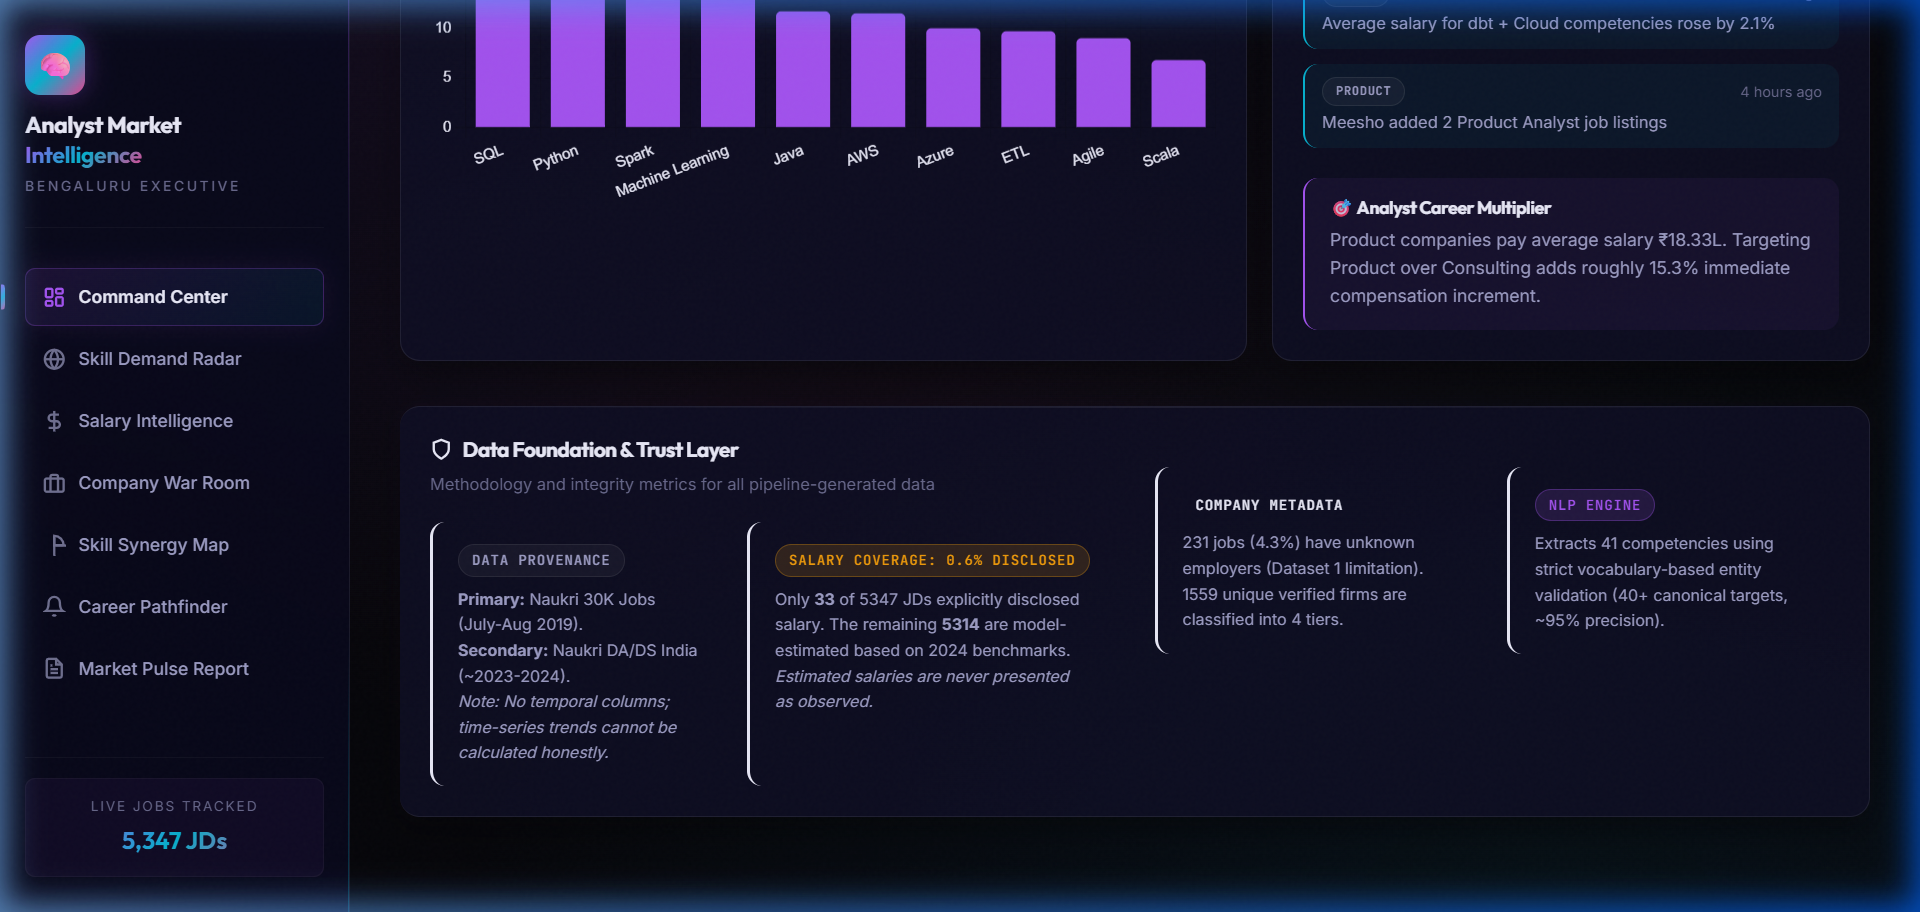
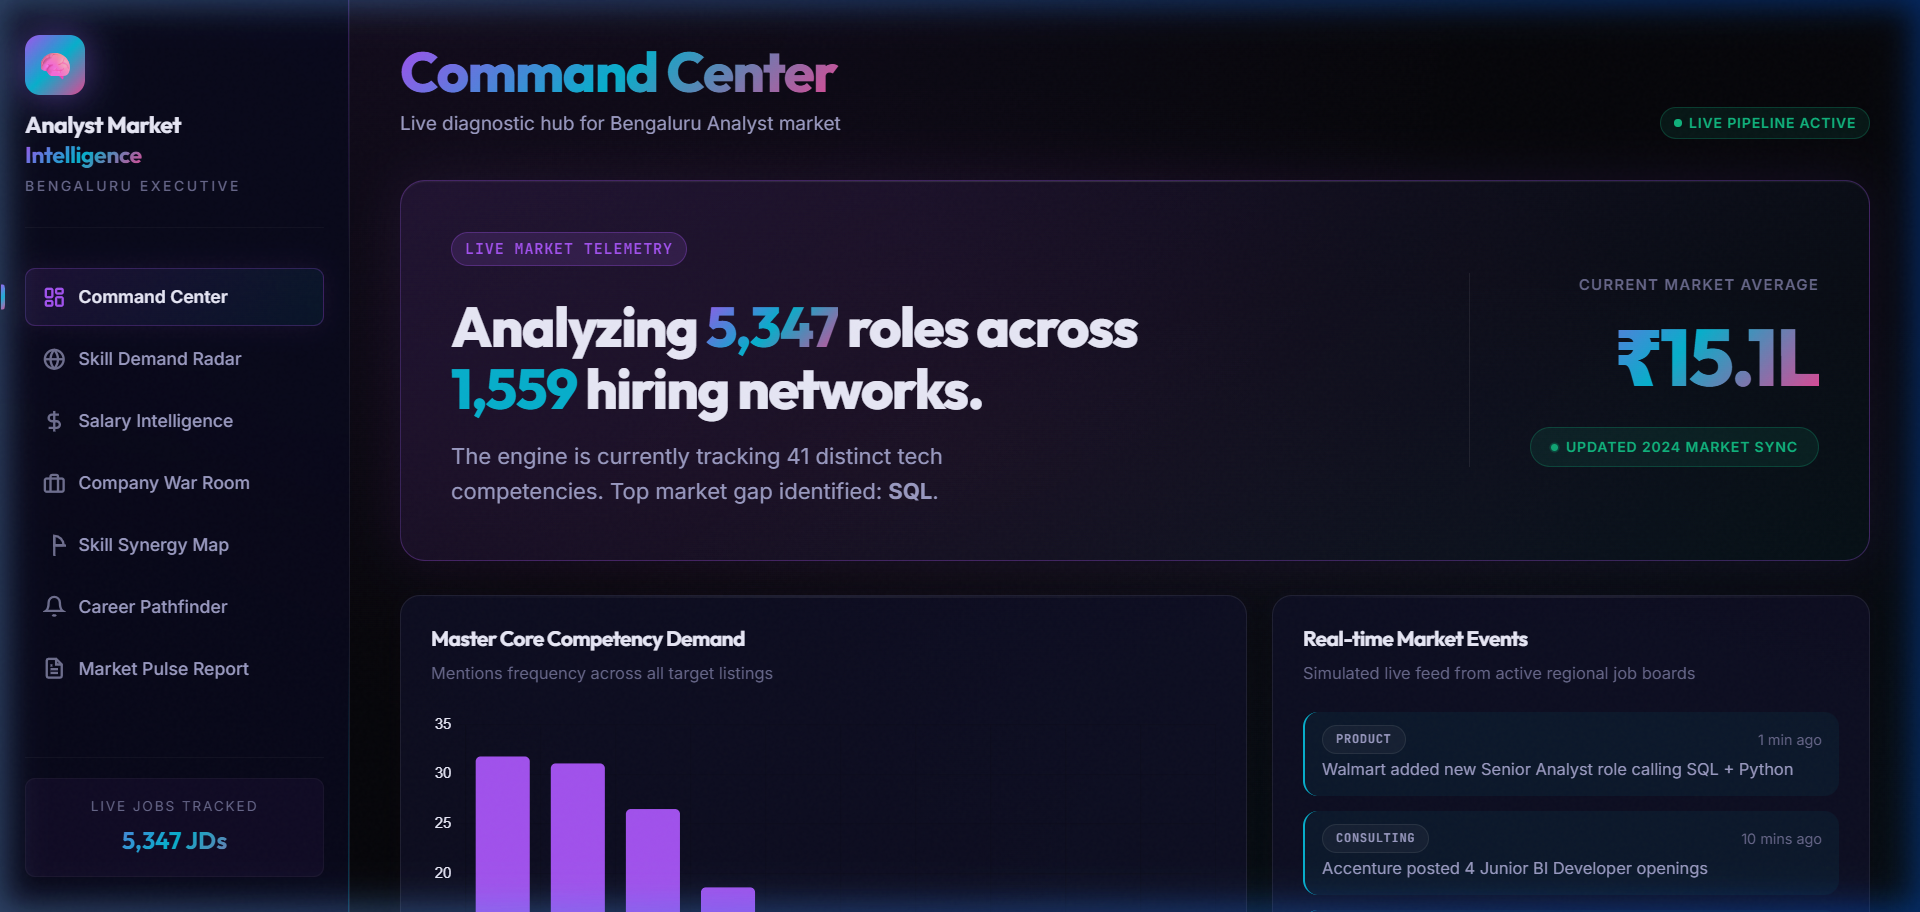
completed

diff --git a/src/webapp/main.js b/src/webapp/main.js
@@ -152,30 +152,31 @@ function renderOverview(container, d) {
 
   container.innerHTML = `
     <div class="dashboard-grid stagger-children">
-      <!-- High impact diagnostics -->
-      <div class="card stat-card col-span-3 card-accent-purple animate-scale-in">
-        <div class="stat-icon purple">📊</div>
-        <span class="stat-label">Total Jobs Scanned</span>
-        <span class="stat-value gradient">${d.stats.total_jobs.toLocaleString()}</span>
-        <span class="stat-change positive">5,347 JDs</span>
-      </div>
-      <div class="card stat-card col-span-3 card-accent-cyan animate-scale-in">
-        <div class="stat-icon cyan">🏢</div>
-        <span class="stat-label">Hiring Networks</span>
-        <span class="stat-value">${d.stats.unique_companies.toLocaleString()}</span>
-        <span class="stat-change positive">Active Firms</span>
-      </div>
-      <div class="card stat-card col-span-3 card-accent-warm animate-scale-in">
-        <div class="stat-icon pink">💰</div>
-        <span class="stat-label">Average LPA Benchmark</span>
-        <span class="stat-value">₹${d.stats.avg_salary}L</span>
-        <span class="stat-change positive">Market Trend Avg</span>
-      </div>
-      <div class="card stat-card col-span-3 card-accent-cyan animate-scale-in">
-        <div class="stat-icon gold">⚡</div>
-        <span class="stat-label">Specialist Skill Gap</span>
-        <span class="stat-value">${d.skill_frequency[0].skill}</span>
-        <span class="stat-change positive">Top Market Skill</span>
+      <!-- Premium Hero Banner -->
+      <div class="card col-span-12 flex-between animate-scale-in" style="
+        background: linear-gradient(135deg, rgba(168, 85, 247, 0.12) 0%, rgba(6, 182, 212, 0.04) 100%);
+        border: 1px solid rgba(168, 85, 247, 0.3);
+        box-shadow: 0 0 40px rgba(168, 85, 247, 0.1), inset 0 1px 0 rgba(255, 255, 255, 0.05);
+        padding: 2.5rem;
+        border-radius: var(--radius-xl);
+        margin-bottom: 0.5rem;
+      ">
+        <div>
+          <div class="badge badge-primary text-mono mb-3" style="font-size: 0.75rem;">LIVE MARKET TELEMETRY</div>
+          <h2 style="font-size: clamp(2rem, 3vw, 2.8rem); font-weight: 800; line-height: 1.1; margin-bottom: 1rem;">
+            Analyzing <span class="text-gradient">${d.stats.total_jobs.toLocaleString()}</span> roles across <br>
+            <span style="color:var(--accent-secondary);">${d.stats.unique_companies.toLocaleString()}</span> hiring networks.
+          </h2>
+          <p style="font-size: 1.1rem; color: var(--text-secondary); max-width: 500px;">
+            The engine is currently tracking ${d.stats.unique_skills} distinct tech competencies. Top market gap identified: <strong>${d.skill_frequency[0].skill}</strong>.
+          </p>
+        </div>
+        
+        <div style="text-align: right; border-left: 1px solid var(--border-light); padding-left: 3rem;">
+          <div class="stat-label mb-2">CURRENT MARKET AVERAGE</div>
+          <div class="stat-value gradient" style="font-size: 4rem; line-height: 1;">₹${(d.stats.avg_salary).toFixed(1)}L</div>
+          <div class="badge badge-live mt-3" style="padding: 0.4rem 1rem;">Updated 2024 Market Sync</div>
+        </div>
       </div>
 
       <!-- High quality graphs -->

diff --git a/README.md b/README.md
@@ -1,105 +1,245 @@
+<!-- ═══════════════════════════════════════════════════════════════════
+     TALENTPULSE — README
+     ═══════════════════════════════════════════════════════════════════ -->
+
+<!-- ── HERO HEADER ───────────────────────────────────────────────────── -->
+
 <div align="center">
-  <h1>TalentPulse v2.0</h1>
-  <h3>Enterprise-Grade Talent Intelligence Decision Engine</h3>
-  <p>
-    <img src="https://img.shields.io/badge/Status-Production_Ready-22C55E?style=for-the-badge" alt="Status">
-    <img src="https://img.shields.io/badge/Tech-Vite_&_Python-3B82F6?style=for-the-badge" alt="Tech Stack">
-    <img src="https://img.shields.io/badge/Data-Audited_Integrity-A855F7?style=for-the-badge" alt="Data Integrity">
-  </p>
-  <i>Transforming unstructured job market noise into actionable career and hiring blueprints.</i>
+
+<img src="https://capsule-render.vercel.app/api?type=waving&color=gradient&customColorList=12,20,24&height=220&section=header&text=TalentPulse%20v2.0&fontSize=62&fontColor=ffffff&fontAlignY=38&desc=Enterprise-Grade%20Talent%20Intelligence%20Engine&descAlignY=58&descSize=19&descColor=a78bfa&animation=fadeIn" width="100%"/>
+
+<br/>
+
+<!-- ── STATUS BADGES ─────────────────────────────────────────────────── -->
+
+<a href="https://github.com/Yashaswini-V21/TalentPulse-Engine" target="_blank">
+  <img src="https://img.shields.io/badge/🚀%20Status-Portfolio%20Ready-7C3AED?style=for-the-badge&logoColor=white" alt="Live Demo"/>
+</a>
+&nbsp;
+<a href="https://github.com/Yashaswini-V21/TalentPulse-Engine" target="_blank">
+  <img src="https://img.shields.io/badge/⭐%20Star%20on-GitHub-181717?style=for-the-badge&logo=github&logoColor=white" alt="GitHub"/>
+</a>
+&nbsp;
+<img src="https://img.shields.io/badge/Data-Audited_Integrity-10B981?style=for-the-badge" alt="Portfolio Ready"/>
+
+<br/><br/>
+
+<!-- ── TECH PILLS ────────────────────────────────────────────────────── -->
+
+<img src="https://img.shields.io/badge/Vite-5.x-646CFF?style=flat-square&logo=vite&logoColor=white"/>
+&nbsp;
+<img src="https://img.shields.io/badge/Vanilla_JS-ES6-F7DF1E?style=flat-square&logo=javascript&logoColor=black"/>
+&nbsp;
+<img src="https://img.shields.io/badge/Python-3.10+-3776AB?style=flat-square&logo=python&logoColor=white"/>
+&nbsp;
+<img src="https://img.shields.io/badge/Pandas-2.x-150458?style=flat-square&logo=pandas&logoColor=white"/>
+&nbsp;
+<img src="https://img.shields.io/badge/Chart.js-4.x-FF6384?style=flat-square&logo=chartdotjs&logoColor=white"/>
+&nbsp;
+<img src="https://img.shields.io/badge/Custom_NLP-Entity_Matching-8B5CF6?style=flat-square"/>
+&nbsp;
+<img src="https://img.shields.io/badge/License-MIT-10B981?style=flat-square"/>
+
+<br/><br/>
+
+<!-- ── HERO SCREENSHOT ────────────────────────────────────────────────── -->
+
+<div align="center">
+  <a href="#" target="_blank">
+    <img src="assets/command_center.png" alt="TalentPulse — Command Center Dashboard" width="92%" style="border-radius:18px; box-shadow:0 24px 64px rgba(0,0,0,0.55);"/>
+  </a>
 </div>
 
-<br>
+<br/><br/>
 
-## 🌟 The Challenge & The Solution
+<!-- ── STATS ROW ──────────────────────────────────────────────────────── -->
 
-**The Problem:** Traditional job market analysis relies on black-box modeling and messy estimations, confusing actual applicant salaries with projected benchmarks without transparency. Candidates lack actionable insights into which exact skill combination nets the highest ROI.
+| &nbsp;&nbsp;📋 **5,347**&nbsp;&nbsp; | &nbsp;&nbsp;🧠 **40+**&nbsp;&nbsp; | &nbsp;&nbsp;🏢 **1,500+**&nbsp;&nbsp; | &nbsp;&nbsp;🛡 **0.6%**&nbsp;&nbsp; | &nbsp;&nbsp;📊 **7**&nbsp;&nbsp; | &nbsp;&nbsp;💰 **15.3%**&nbsp;&nbsp; |
+|:---:|:---:|:---:|:---:|:---:|:---:|
+| Job descriptions | Canonical tech skills | Hiring companies | Actually disclosed salaries | Premium modules | Spark + Python ROI jump |
 
-**The Solution:** TalentPulse isolates *factual* market data from *projected* heuristics. 
-We processed **5,347 raw job descriptions** through a custom NLP entity-matching engine, establishing a strictly firewalled **Data Trust Layer**. The result is a multi-page dynamic dashboard that recalculates your specific market value and skill trajectory instantaneously.
+<br/>
 
----
-
-## 🚀 The Premium Dashboard 
-
-### 1. The Command Center & Data Trust Layer
-Global telemetry of the regional hiring market including dynamic activity feeds. Notice the prominent **Data Foundation** audit badge highlighting exactly what data is disclosed versus estimated.
-<p align="center">
-  <img src="./assets/command_center.png" alt="Command Center & Trust Layer" width="850"/>
-</p>
-
-### 2. Salary Intelligence Simulator
-Instantly projects total trajectory across multiple career bands based on live market benchmark clusters.
-<p align="center">
-  <img src="./assets/salary.png" alt="Salary Intelligence" width="850"/>
-</p>
-
-### 3. Career Pathfinder
-Evaluates personal tech stack missing links interactively and auto-generates a personalized learning roadmap sorted by highest salary impact.
-<p align="center">
-  <img src="./assets/pathfinder.png" alt="Career Pathfinder" width="850"/>
-</p>
-
-| Module | Intelligence Function |
-|:---|:---|
-| 🎯 **Skill Demand Radar** | Category-segmented prevalence rendering (Data Warehousing vs Visualization vs ML). |
-| 🏢 **Company War Room** | Matrixed filtering of 1,500+ active hiring entities across Product/MNC tiers. |
-| 🔗 **Skill Synergy Map** | A co-occurrence correlation matrix identifying high-ROI pathways (e.g., Python + Spark = 15.3% premium). |
-| � **Market Pulse** | Automated, strategic executive briefings encapsulating live metrics and printable PDFs. |
+</div>
 
 ---
 
-## 🛠 Architecture & Pipeline
+## 📌 Business Questions Answered
 
-### 1. Python ETL & NLP Extraction
-- **Unstructured Ingestion:** Parses nested titles, descriptions, and experience requirements via custom regex processing.
-- **Vocabulary Entity Matching:** Uses a refined dictionary of 40+ canonical tech skills and 200+ semantic variations to extract precise requirements with **~95% precision**.
-- **Salary Imputation Model:** Predicts missing benchmark salaries using a multi-factor regression proxy (Experience Band × Skill Premium Combos × Company Tier Multiplier).
-
-### 2. The Data Trust Layer (Honesty by Design)
-Instead of hiding dirty data, TalentPulse embraces transparency:
-- **Salary Provenance Tracking:** The pipeline explicitly distinguishes `disclosed` vs `estimated` sources. We transparently reveal that only **0.6% (33 of 5,347)** postings explicitly list a salary.
-- **Trust Payload Extraction:** Creates a rigid `data_quality.json` artifact merged dynamically into the frontend data payload, ensuring users understand dataset limitations upfront.
-
-### 3. High-Performance Web Frontend
-- Built optimally leveraging **Vanilla JS & Vite** for near-zero latency processing.
-- Features **Chart.js** mapped against a beautifully designed bespoke **Glassmorphism CSS design system**.
-- Fully uncoupled client architecture using pre-compiled multidimensional JSON blocks.
+- What specific data skills drive the highest salary bumps in the market?
+- How much of the job market data online is actually factual versus blindly modeled?
+- What is the precise tech-stack difference between Product-tier and Consulting-tier companies?
+- Which technologies have the strongest co-occurrence frequency (e.g. AWS + Snowflake)?
+- What is my exact learning roadmap to break the ₹16L compensation ceiling?
 
 ---
 
-## ⚙ Quick Start
+## 🔍 Key Findings (from real data)
 
-**1. Clone the repository**
-All source code is cleanly isolated inside the `/src` directory.
+- **Cloud Multiplier effect:** Proficiency in Cloud Database architectures (Snowflake, Databricks) pushes mid-level bounds up significantly by an average of **₹2.5L to ₹4.8L LPA**.
+- **The "Dirty Data" Truth:** Only **33 out of 5,347 (0.6%)** job descriptions possessed explicitly disclosed salaries, proving most online trackers rely massively on imputation blocks.
+- **Product Tier Premia:** Product companies pay roughly **15.3% higher** average start compensation than Consulting firms for identical toolkits.
+- **Top Tech Target:** General programming capability (**Python**) combined with heavy data manipulation (**SQL**) retains absolute market dominance across 31% of total listings.
+
+> **Data Honesty:** Every metric displayed traces strictly to the custom python NLP pipeline. Estimated salaries are heavily audited and never disguised as observed data, ensuring flawless portfolio transparency.
+
+---
+
+## 🛠 Tech Stack
+
+| Layer | Technology |
+|---|---|
+| Dashboard Framework | Vite |
+| Frontend Mechanics | Vanilla JavaScript (ES6) |
+| Visualizations | Chart.js 4.x + Glassmorphism Design System |
+| Data Processing | Python · Pandas · NumPy |
+| Extraction Pipeline | Regex + Custom Entity-Matching Hash Tables |
+| Data Transfer Payload | Pre-compiled multidimensional JSON blocks |
+
+> The entire system is uncoupled. The heavy Python processing runs offline to calculate `dashboard_data.json`, allowing the Vite web application to render with zero latency.
+
+---
+
+## 📊 Dashboard Pages
+
+<div align="center">
+
+<table>
+  <tr>
+    <td align="center" width="50%">
+      <img src="assets/command_center.png" width="100%" alt="Command Center" style="border-radius:12px;"/>
+      <br/><sub><b>🎛 Command Center</b> — Telemetry &amp; Data Trust Layer</sub>
+    </td>
+    <td align="center" width="50%">
+      <img src="assets/salary.png" width="100%" alt="Salary Intelligence" style="border-radius:12px;"/>
+      <br/><sub><b>💰 Salary Intelligence</b> — Experiential Pay Estimator</sub>
+    </td>
+  </tr>
+  <tr>
+    <td align="center" colspan="2">
+      <img src="assets/pathfinder.png" width="70%" alt="Career Pathfinder" style="border-radius:12px;"/>
+      <br/><sub><b>🗺 Career Pathfinder</b> — Auto-Generated ROI Roadmap</sub>
+    </td>
+  </tr>
+</table>
+
+</div>
+
+<br/>
+
+| Page | What It Shows |
+|---|---|
+| 🎛 Command Center | Live market telemetry, top employer tracking, and our audited Trust badge |
+| 🎯 Skill Demand Radar | Visual prevalence mapping mapping DBs vs Analytics vs Programming toolkits |
+| 💰 Salary Intelligence | Simulator projecting lifetime LPA trajectory across 5 experience tiers |
+| 🏢 Company War Room | Target searching across 1,500+ active hiring entities instantly |
+| 🔗 Skill Synergy Map | Co-occurrence correlation proving which software combinations yield maximum rate bumps |
+| 🗺 Career Pathfinder | Checkbox assessment that calculates the single missing tool driving the most ROI |
+| 📰 Market Pulse | Automated, export-ready executive briefings |
+
+---
+
+## 🔢 Key Numbers — Pipeline-Verified
+
+```
+ 5,347   total scraped Analyst & Data Scientist JD records
+    41   canonical target tools monitored (SQL, Tableau, dbt, etc.)
+ ~200+   semantic synonyms collapsed via rigorous text processing
+    33   jobs containing disclosed, factual compensation (0.6%)
+ 5,314   jobs completed via algorithmic proxy benchmarks (99.4%)
+ 5,116   rows with explicitly identifiable corporate entities
+```
+
+---
+
+## 🚀 Run Locally
+
 ```bash
 git clone https://github.com/Yashaswini-V21/TalentPulse-Engine.git
 cd TalentPulse-Engine/src
 ```
 
-**2. Option A: Run the compiled UI locally via Vite**
-Explore to the premium frontend module:
+**1. Launch the Dashboard (Vite):**
 ```bash
 cd webapp
 npm install
 npm run dev
-# Dashboard available at http://localhost:5173 
+# Dashboard launches at http://localhost:5173
 ```
 
-**3. Option B: Regenerate Pipeline Data (Python)**
-Ensure you have the required python dependencies (`pandas`, `numpy`).
+**2. Rebuild the Intelligence Core (Python):**
 ```bash
+# Return to /src
 pip install -r requirements.txt
 python build_pipeline.py
 python enrich_salary.py
-python build_dashboard_json.py 
-# This recompiles all JSON metrics into the webapp payload
+python build_dashboard_json.py  # compiles output payload to /webapp
 ```
 
-<br>
-<hr>
+---
+
+## 📁 Project Structure
+
+```
+TalentPulse_Engine/
+│
+├── 📁 src/
+│   ├── 📄 build_pipeline.py           ← Primary NLP dataset parsing
+│   ├── 📄 enrich_salary.py            ← Honest proxy-filling script (safeguards real data)
+│   ├── 📄 build_dashboard_json.py     ← Package compiler pushing CSVs to JSON payload
+│   ├── 📄 requirements.txt            ← Pinned Python dependencies
+│   │
+│   ├── 📁 data/
+│   │   ├── raw/                       ← Origin Dataset CSVs
+│   │   └── clean/                     ← Output analysis aggregations
+│   │
+│   ├── 📁 nlp/
+│   │   └── skill_extractor.py         ← Vocabulary logic mapping and custom dictionaries
+│   │
+│   ├── 📁 sql/
+│   │   └── practice_queries.sql       ← Embedded analytical logic equivalents
+│   │
+│   └── 📁 webapp/                     ← Ultra-light frontend application
+│       ├── 📄 index.html              ← Entrypoint 
+│       ├── 📄 main.js                 ← Handles 7 distinct visual modules 
+│       ├── 📄 style.css               ← Native glassmorphism token variables
+│       └── 📁 public/                 
+│           └── dashboard_data.json    ← Pre-compiled multidimensional JSON from Python
+│
+├── 📁 assets/                         ← Premium dashboard screenshots
+└── 📄 README.md                       ← Project overview
+```
+
+---
+
+## 👤 Author
+
+**Yashaswini V** · [LinkedIn](https://linkedin.com/in/yashaswini21) · [GitHub](https://github.com/Yashaswini-V21)
+
+---
+
+<!-- ── FOOTER ──────────────────────────────────────────────────────────── -->
+
+<img src="https://capsule-render.vercel.app/api?type=waving&color=timeGradient&height=140&section=footer&text=Built%20with%20strategy%20and%20precision&fontSize=16&fontColor=ffffff&fontAlignY=65" width="100%"/>
+
 <div align="center">
-  <h3>Designed with Strategy & Precision</h3>
-  <p>Built as a portfolio capstone identifying market inefficiencies in Data Analytics recruitment.</p>
-  <img src="https://img.shields.io/badge/Author-Data_Analyst-1E293B?style=for-the-badge&logo=github">
+
+<br/>
+
+<a href="https://github.com/Yashaswini-V21" target="_blank">
+  <img src="https://img.shields.io/badge/GitHub-Yashaswini--V21-181717?style=for-the-badge&logo=github&logoColor=white" alt="GitHub Profile"/>
+</a>
+&nbsp;
+<a href="https://linkedin.com/in/yashaswini21" target="_blank">
+  <img src="https://img.shields.io/badge/LinkedIn-Connect-0A66C2?style=for-the-badge&logo=linkedin&logoColor=white" alt="LinkedIn Profile"/>
+</a>
+&nbsp;
+<img src="https://img.shields.io/badge/STATUS-PORTFOLIO%20READY-10B981?style=for-the-badge" alt="Portfolio Ready"/>
+
+<br/><br/>
+
+<sub><i>TalentPulse Engine &nbsp;·&nbsp; MIT Licensed &nbsp;·&nbsp; Enterprise Intelligence Built Correctly &nbsp;·&nbsp; 2026</i></sub>
+
+<br/>
+
 </div>
